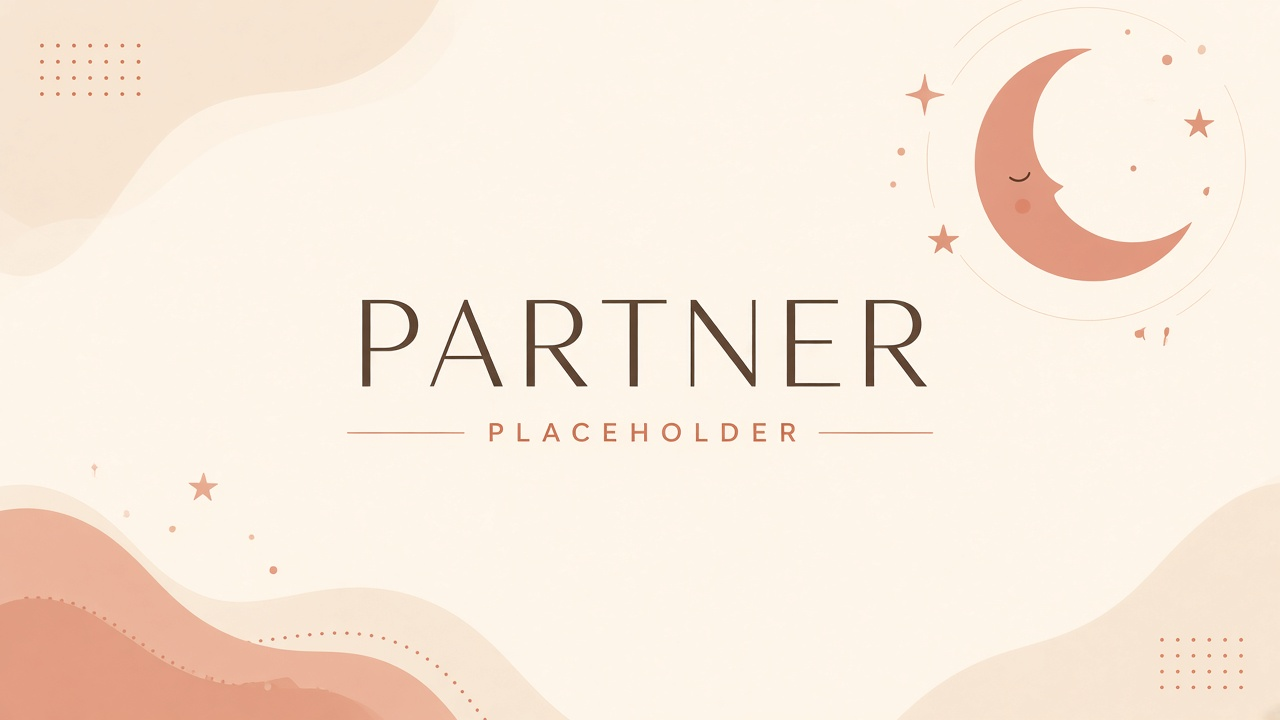
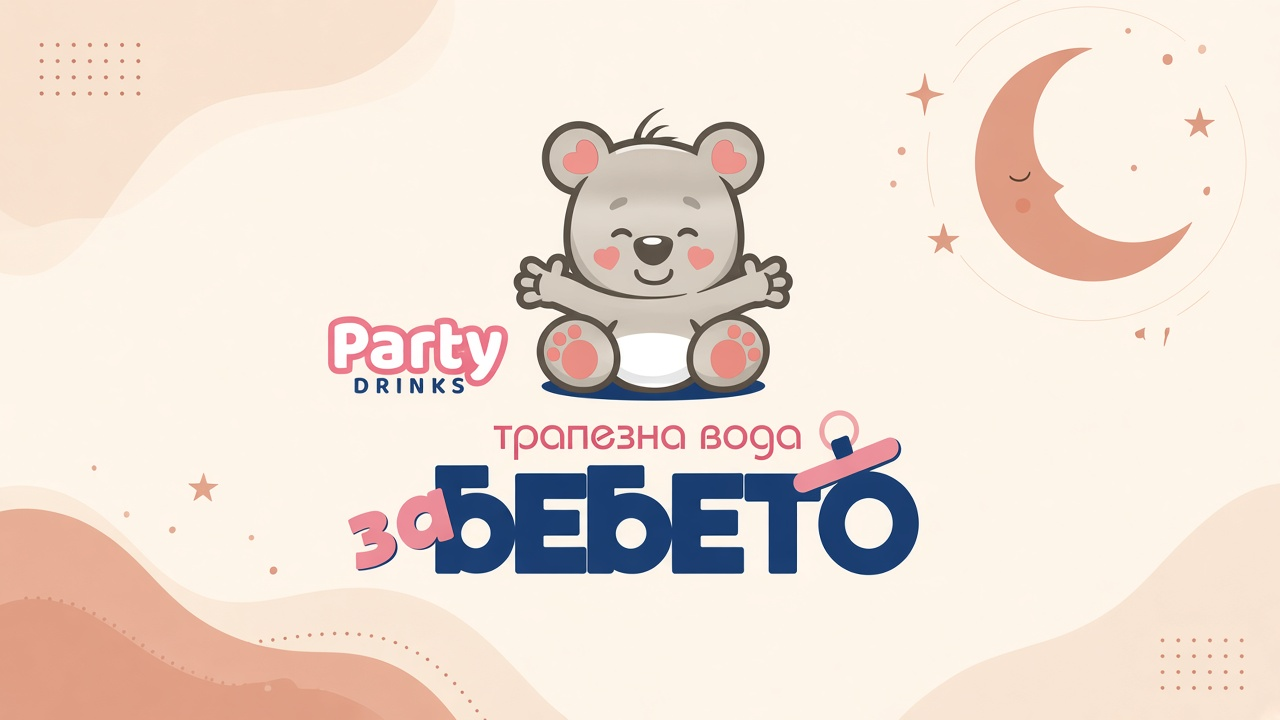
Show the partners section with the Party Drinks baby-water card.

Changed region(s): [[0.25, 0.1528, 0.7188, 0.7944]]

diff --git a/index.html b/index.html
@@ -377,11 +377,11 @@
   .partners h2 span{ color:var(--terracotta); }
   .partner-track{
     display:grid;
-    grid-template-columns:repeat(3, minmax(0, 1fr));
+    grid-template-columns:minmax(0, 1fr);
     gap:12px;
     margin-top:16px;
-    width:50%;
-    max-width:50%;
+    width:32%;
+    max-width:420px;
     margin-left:auto;
     margin-right:auto;
   }
@@ -623,12 +623,10 @@
     <div class="feat"><div class="fic">🌙</div><p>Нощен режим<span>Големи бутони в 3 ч.</span></p></div>
   </div>
 
-  <section class="partners" hidden aria-hidden="true" aria-label="Партньори, които вярват в нас">
+konkreten deta  <section class="partners" aria-label="Партньори, които вярват в нас">
     <h2>Партньори, които <span>вярват в нас</span></h2>
     <div class="partner-track">
-      <div class="partner-slide"><img src="partners/slide-1.png" alt="Временно лого на партньор 1" width="1600" height="900"></div>
-      <div class="partner-slide"><img src="partners/slide-2.png" alt="Временно лого на партньор 2" width="1600" height="900"></div>
-      <div class="partner-slide"><img src="partners/slide-3.png" alt="Временно лого на партньор 3" width="1600" height="900"></div>
+      <div class="partner-slide"><img src="partners/slide-1.png" alt="Party Drinks За бебето" width="1600" height="900"></div>
     </div>
   </section>
 
